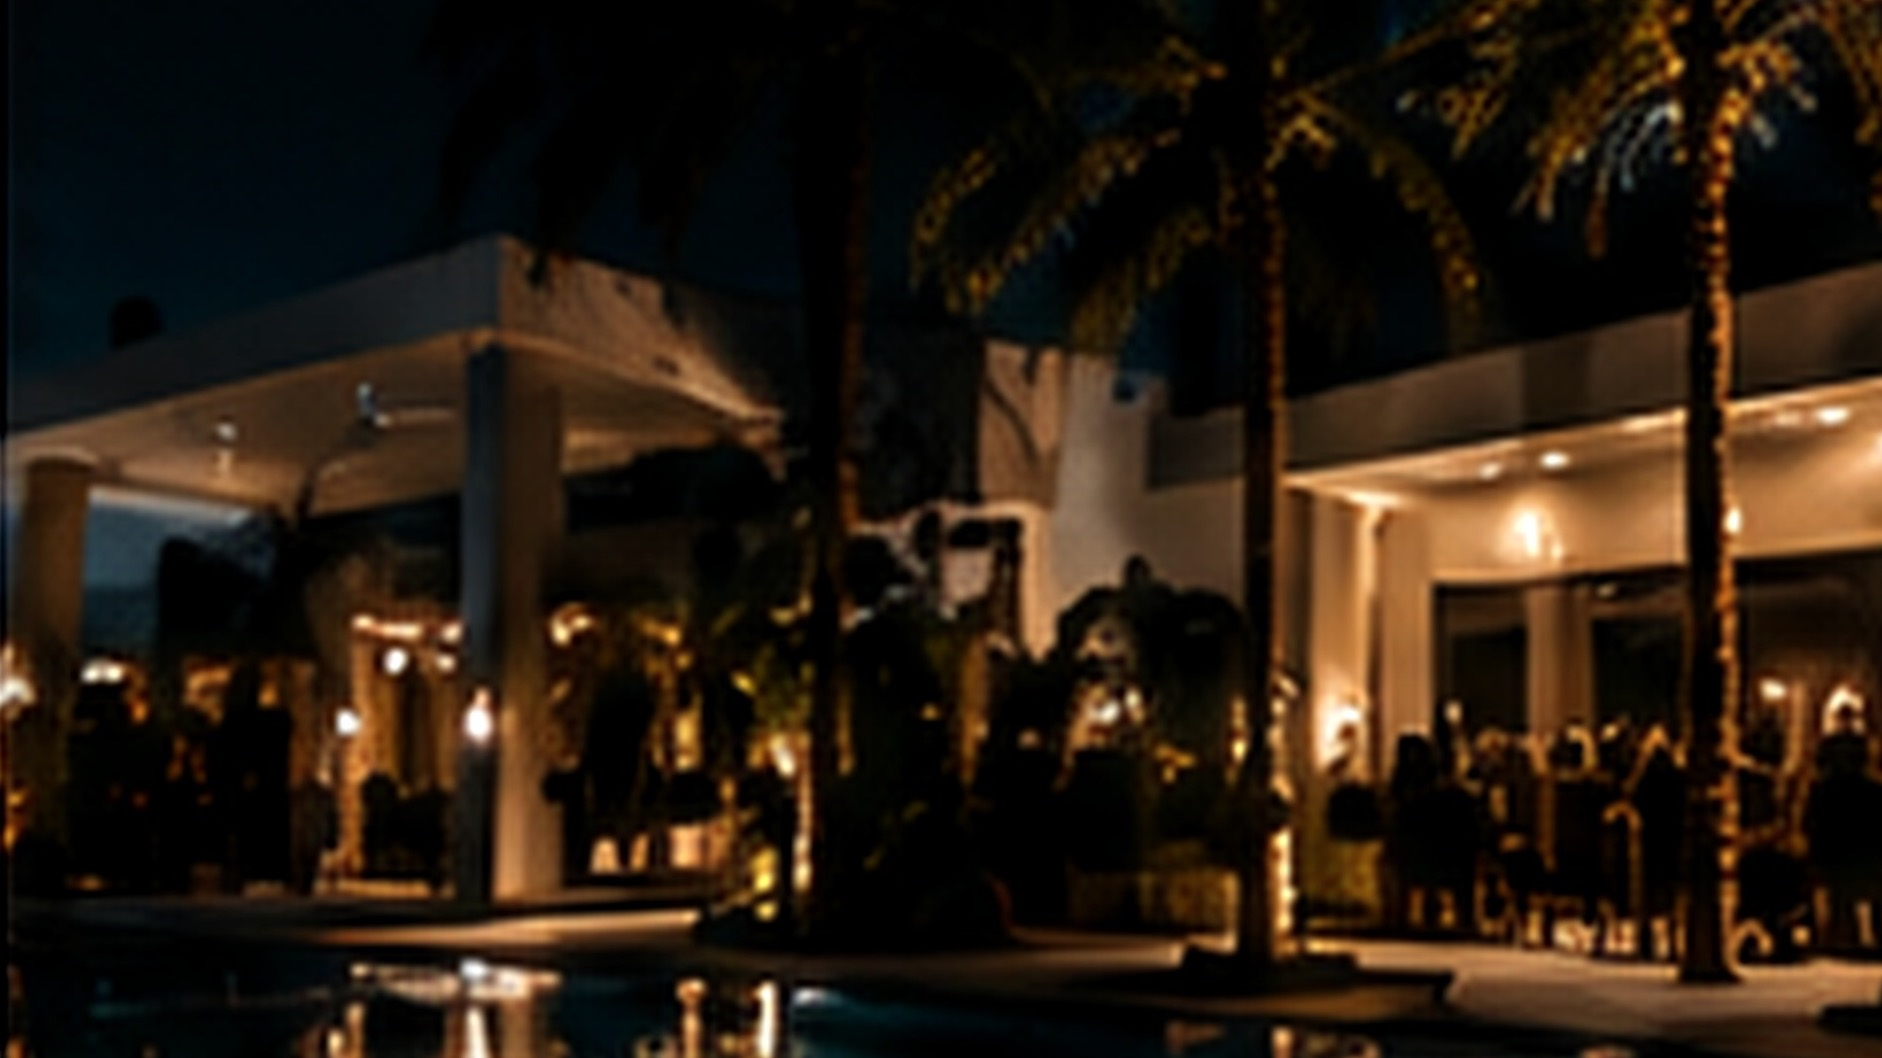
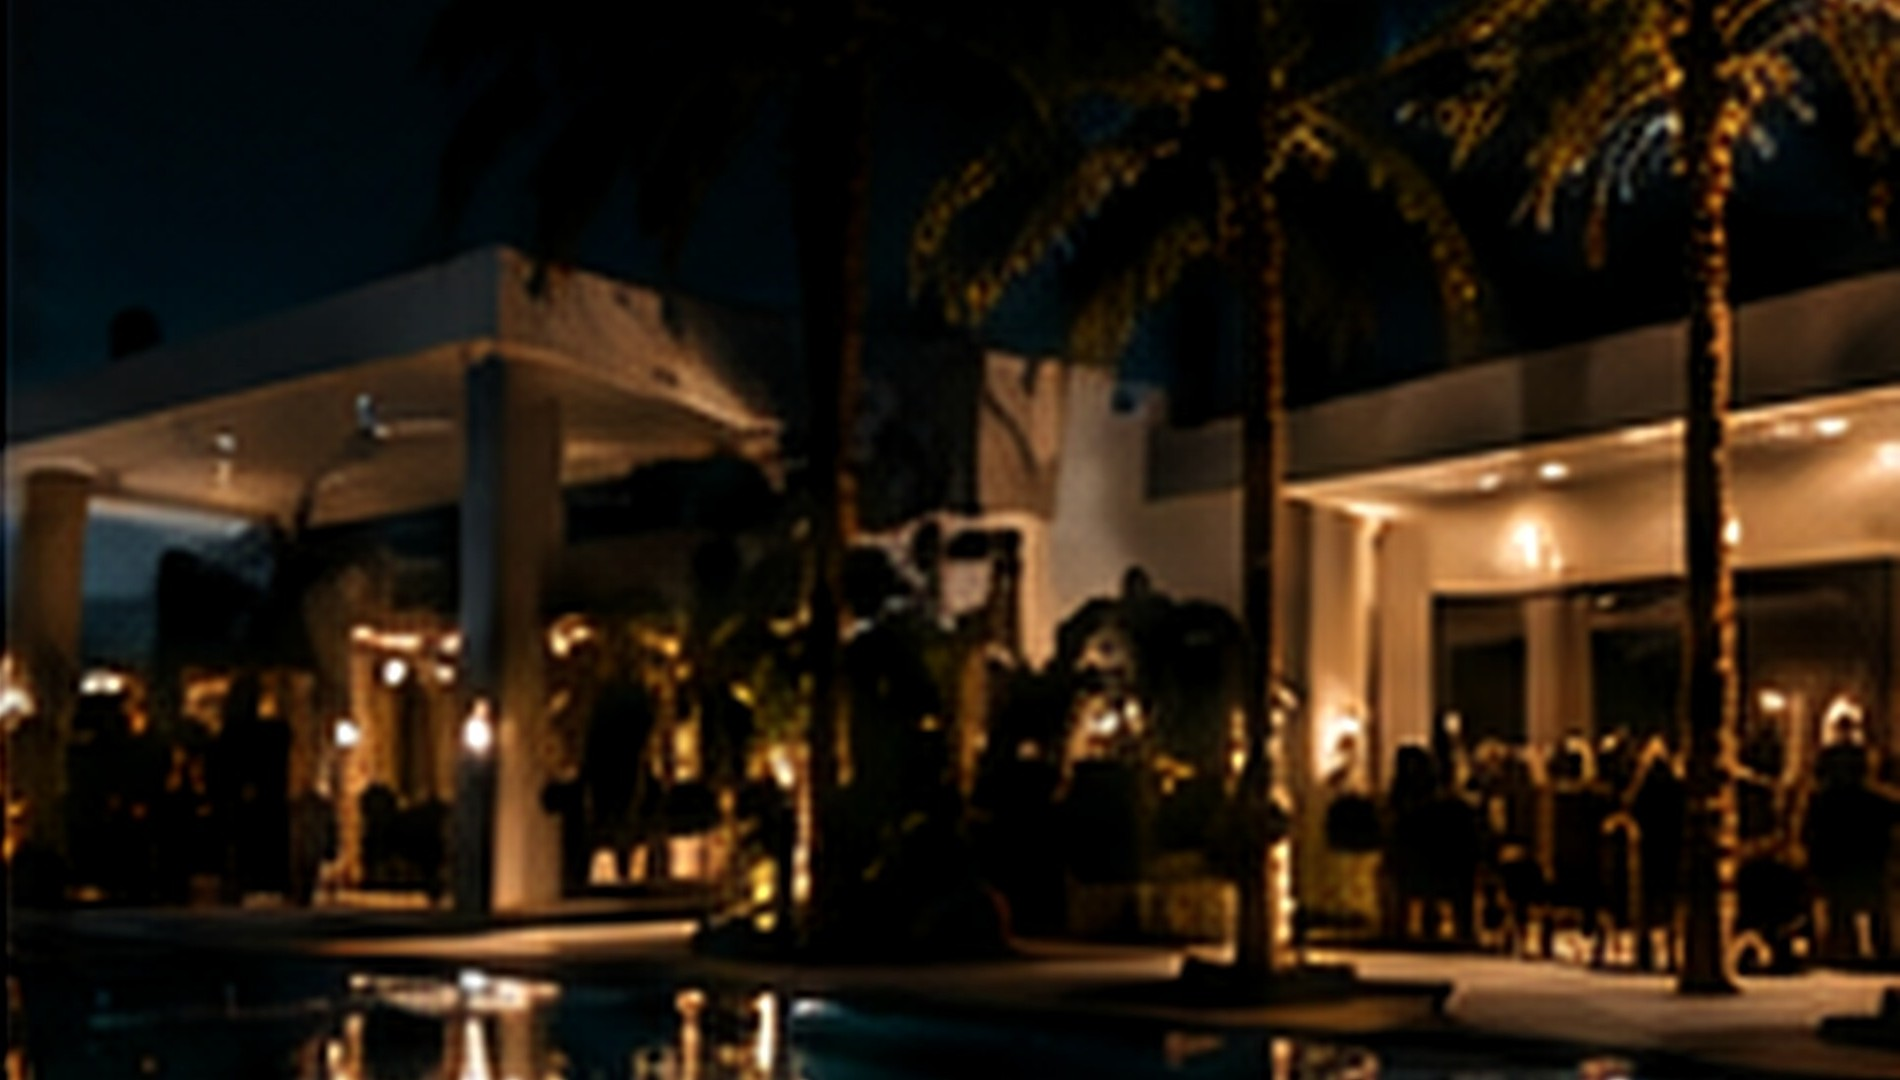
Sections: 01 THE EVENT and 02 EXPERIENCE
- SectionEyebrow component for the mockup's numbered section markers.
- 01: editorial two-column — statement left, portrait centre-right, keyword rail
  in the far gutter; stacks on mobile with the rail as a wrapped row.
- 02: three image-led blocks with caption pairs under hairline rules. No cards,
  no fills, no radius.
- Section copy and image references centralised in lib/site.ts.
- OUR STORY scrolls to #experience rather than linking somewhere that does not
  exist; VIEW GALLERY is held back until 05 GALLERY lands.
- Trimmed a 20px generator seam from the left edge of hero-villa-desktop.jpg,
  confirmed by measurement. All other pack images ship untouched.

Verified 1440/1280/390/360: no horizontal overflow, all images load, no console
errors, and the 19 booking assertions still pass.

diff --git a/components/sections/event-story.tsx b/components/sections/event-story.tsx
@@ -1,0 +1,59 @@
+import Image from "next/image";
+import { STORY } from "@/lib/site";
+import { SectionEyebrow } from "@/components/ui/section-eyebrow";
+import { CtaLink } from "@/components/ui/cta";
+
+/**
+ * 01 THE EVENT — editorial two-column: statement left, portrait centre-right,
+ * keyword rail in the far gutter. Mobile stacks it and turns the rail into a
+ * wrapped row, which reads better than a column of one-word lines on a phone.
+ */
+export function EventStory() {
+  return (
+    <section id="event" className="shell scroll-mt-24 py-20 md:py-32">
+      <SectionEyebrow index="01" label={STORY.eyebrow} />
+
+      <div className="mt-10 grid grid-cols-1 gap-10 md:mt-16 md:grid-cols-12 md:gap-8">
+        <div className="flex flex-col md:col-span-5 md:pt-6">
+          <h2 className="type-headline text-[clamp(2.25rem,6vw,3.75rem)]">
+            More Than
+            <br />
+            Just A Party.
+          </h2>
+
+          <p className="text-ink-dim mt-6 max-w-sm font-sans text-[15px] leading-[1.75]">
+            {STORY.body}
+          </p>
+
+          <CtaLink href="#experience" size="md" className="mt-9 self-start">
+            Our Story ↗
+          </CtaLink>
+        </div>
+
+        <div className="md:col-span-4 md:col-start-7">
+          <div className="relative aspect-[4/5] overflow-hidden">
+            <Image
+              src={STORY.image}
+              alt={STORY.imageAlt}
+              fill
+              sizes="(min-width: 768px) 33vw, 100vw"
+              className="object-cover"
+            />
+          </div>
+        </div>
+
+        {/* Keyword rail — a column in the desktop gutter, a wrapped row on mobile. */}
+        <div className="md:col-span-2 md:col-start-11 md:pt-6">
+          <span className="bg-gold mb-6 hidden h-px w-8 md:block" aria-hidden />
+          <ul className="flex flex-wrap gap-x-5 gap-y-3 md:flex-col md:gap-y-5">
+            {STORY.keywords.map((word) => (
+              <li key={word} className="label-micro">
+                {word}
+              </li>
+            ))}
+          </ul>
+        </div>
+      </div>
+    </section>
+  );
+}

diff --git a/lib/site.ts b/lib/site.ts
@@ -89,6 +89,41 @@ export const HERO_MEDIA: {
   alt: "A private villa lit for a party at night, palms strung with lights above a pool",
 };
 
+/** 01 THE EVENT — copy from the approved mockup. */
+export const STORY = {
+  eyebrow: "The Event",
+  headline: "More Than Just A Party.",
+  body: "A private villa experience built for good music, great people and unforgettable nights.",
+  keywords: ["MUSIC", "PEOPLE", "FREEDOM", "CONNECTION", "MEMORIES"],
+  image: "/images/event-portrait.jpg",
+  imageAlt: "A guest at the villa party, lit by warm light, holding a drink",
+} as const;
+
+/** 02 EXPERIENCE — image-led blocks, not feature cards. */
+export const EXPERIENCE = [
+  {
+    key: "music",
+    title: "CURATED MUSIC",
+    caption: "Deep beats. Long nights.",
+    image: "/images/experience-dj.jpg",
+    alt: "A DJ mixing at the villa, hands on the decks under warm light",
+  },
+  {
+    key: "crowd",
+    title: "SELECTED CROWD",
+    caption: "Good people. Better vibes.",
+    image: "/images/experience-sparklers.jpg",
+    alt: "Guests dancing with sparklers raised above the crowd",
+  },
+  {
+    key: "villa",
+    title: "PRIVATE VILLA",
+    caption: "Exclusive location.",
+    image: "/images/cta-villa-entrance.jpg",
+    alt: "The lit entrance of the private villa at night",
+  },
+] as const;
+
 export const NAV = [
   { label: "Home", href: "/" },
   { label: "The Event", href: "/#event" },

diff --git a/components/sections/experience.tsx b/components/sections/experience.tsx
@@ -1,0 +1,36 @@
+import Image from "next/image";
+import { EXPERIENCE } from "@/lib/site";
+import { SectionEyebrow } from "@/components/ui/section-eyebrow";
+
+/**
+ * 02 EXPERIENCE — three image-led blocks with caption pairs beneath. Not
+ * feature cards: no fill, no radius, no shadow, hairline rules only.
+ */
+export function Experience() {
+  return (
+    <section id="experience" className="shell scroll-mt-24 pb-20 md:pb-32">
+      <SectionEyebrow index="02" label="Experience" />
+
+      <ul className="mt-10 grid grid-cols-1 gap-10 md:mt-14 md:grid-cols-3 md:gap-6">
+        {EXPERIENCE.map((item) => (
+          <li key={item.key} className="flex flex-col">
+            <div className="relative aspect-[16/10] overflow-hidden">
+              <Image
+                src={item.image}
+                alt={item.alt}
+                fill
+                sizes="(min-width: 768px) 33vw, 100vw"
+                className="object-cover"
+              />
+            </div>
+
+            <div className="border-line mt-5 border-t pt-5">
+              <p className="label-micro text-ink">{item.title}</p>
+              <p className="text-ink-dim mt-2 font-sans text-sm">{item.caption}</p>
+            </div>
+          </li>
+        ))}
+      </ul>
+    </section>
+  );
+}

diff --git a/components/ui/section-eyebrow.tsx b/components/ui/section-eyebrow.tsx
@@ -1,0 +1,28 @@
+import { cn } from "@/lib/utils";
+
+/**
+ * The numbered section marker from the mockup: gold index, uppercase label.
+ * Used by every section so the numbering stays consistent as sections land.
+ */
+export function SectionEyebrow({
+  index,
+  label,
+  aside,
+  className,
+}: {
+  index: string;
+  label: string;
+  /** Optional right-aligned note, e.g. "MOMENTS FROM OUR NIGHTS". */
+  aside?: string;
+  className?: string;
+}) {
+  return (
+    <div className={cn("flex items-baseline justify-between gap-6", className)}>
+      <p className="flex items-baseline gap-4">
+        <span className="label-micro text-gold">{index}</span>
+        <span className="label-micro">{label}</span>
+      </p>
+      {aside && <span className="label-micro text-right">{aside}</span>}
+    </div>
+  );
+}

diff --git a/app/page.tsx b/app/page.tsx
@@ -1,17 +1,18 @@
 import { Hero } from "@/components/sections/hero";
+import { EventStory } from "@/components/sections/event-story";
+import { Experience } from "@/components/sections/experience";
 
 /**
- * Phase 2 — sections land in mockup order:
- * hero ✓ → 01 the event → 02 experience → interstitial → 03 details →
+ * Sections land in mockup order:
+ * hero ✓ → 01 the event ✓ → 02 experience ✓ → interstitial → 03 details →
  * 04 passes → 05 gallery → 06 faq → final CTA.
  */
 export default function Home() {
   return (
     <>
       <Hero />
-      <div id="event" className="shell py-24">
-        <p className="label-micro">01 · The Event — next</p>
-      </div>
+      <EventStory />
+      <Experience />
     </>
   );
 }

diff --git a/docs/decisions.md b/docs/decisions.md
@@ -109,3 +109,26 @@ Append a line whenever a choice is made that the spec didn't dictate.
   invisible but still keyboard-focusable — found while testing the booking CTAs.
 - **Hero title reduced** to `min(8vw, 16vh)` on desktop, per the agreed
   correction. Composition, scrims and photography are untouched.
+
+## Sections 01 + 02 (15 Sep 2026)
+
+- **`SectionEyebrow`** added so the mockup's numbered markers (`01 THE EVENT` …
+  `06 FAQ`) stay consistent as sections land.
+- **01 keyword rail** is a column in the desktop gutter and a wrapped row on
+  mobile. A column of one-word lines reads badly on a phone, and the mockup's
+  mobile frame doesn't show the rail at all.
+- **`OUR STORY ↗` points at `#experience`.** There is no story page; rather than
+  repeat the `/book` mistake, it scrolls to the next section. Revisit if the
+  client wants a real story page.
+- **`VIEW GALLERY ↗` omitted for now.** The mockup places it in 02, but `#gallery`
+  doesn't exist yet and a dead control is worse than a missing one. It goes in
+  with 05 GALLERY.
+- **02 follows the mockup's three equal landscape blocks**, not the "different
+  aspect ratios" idea from the later review — the approved mockup is the contract
+  until the client changes it.
+- **Image edges: one real seam, one false alarm.** `hero-villa-desktop.jpg` has a
+  genuine generator seam down its left edge (95th-percentile luminance peaks at
+  246 against an interior of 49–77); 20px trimmed. Everything else ships exactly
+  as the pack delivered it. An earlier pass cropped several images chasing what
+  turned out to be photographic edge glow and, in one case, a sparkler in the
+  frame — reverted. Measure before cropping.
